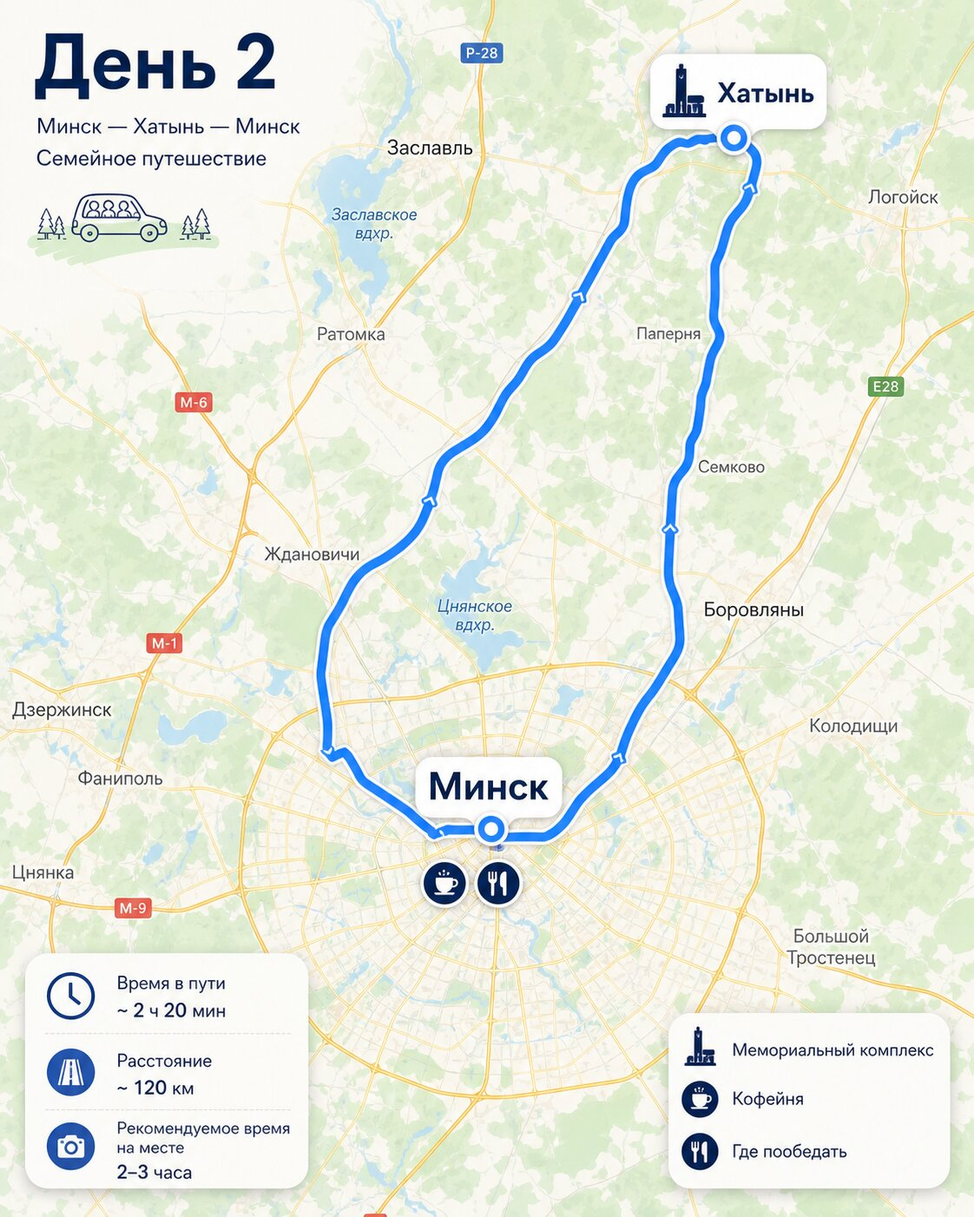
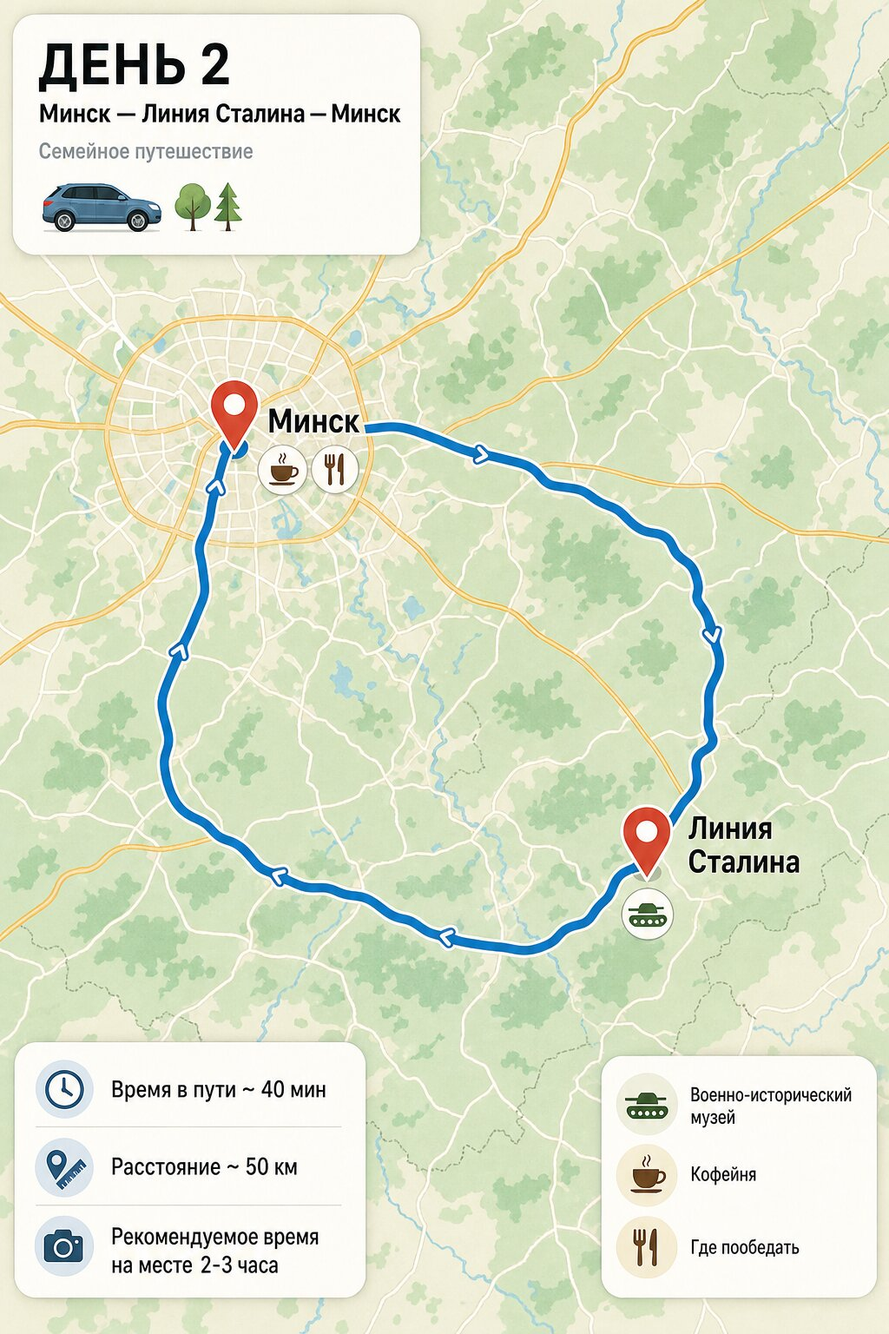
Belarus report: drop Google Maps links, swap Khatyn for Stalin Line, add cost-per-km (4 rub/km) and economy totals row

diff --git a/belarus/index.html b/belarus/index.html
@@ -10,20 +10,20 @@
 </style></head><body><div class="wrap">
 <section class="hero"><h1>Дима, Надя и Тимур — маршрут по дням с фото и навигацией</h1><p>Фотографии достопримечательностей и гастромест разнесены по дням, чтобы во время движения по маршруту было проще быстро сориентироваться. Яндекс-ссылки возвращены для каждого ключевого дня.</p></section>
 <section class="card"><h2>Маршрут по дням</h2>
-<div class="day" id="top-day-1"><div class="row"><strong>День 1 — Москва → Вязьма → Смоленск → Минск</strong><span class="small">720 км</span></div><div class="pill">Кофе в Вязьме</div><div class="pill">Обед в Смоленске</div><div class="pill">Вечер в Минске</div><div class="links"><a target="_blank" rel="noopener noreferrer" href="https://www.google.com/maps/dir/?api=1&origin=55.7558,37.6176&destination=53.9045,27.5615&waypoints=55.2104,34.2951|54.7826,32.0453&travelmode=driving">Google Maps</a><a target="_blank" rel="noopener noreferrer" href="https://yandex.ru/maps/?rtext=55.7558,37.6176~55.2104,34.2951~54.7826,32.0453~53.9045,27.5615&rtt=auto">Яндекс Карты</a> <a target="_self" href="#ref-minsk">Справка по месту</a></div><ul><li><strong>Гастростоп:</strong> «Аколица» у Вязьмы; Тимуру — мясо/драники, Наде — десерт и кофе.</li><li><strong>Ориентир по еде:</strong> завтрак 2 400 ₽, перекус 1 200 ₽, обед 3 300 ₽, ужин в Минске 4 200–9 500 ₽.</li></ul><div class="gallery"><figure><img loading="lazy" width="1024" height="1280" src="./assets/map-day1.jpg" class="daymap" alt="Карта дня 1"><figcaption>Карта дня 1 — общий обзор маршрута Москва → Вязьма → Смоленск → Минск.</figcaption></figure><figure><img loading="lazy" width="900" height="600" src="./assets/img-07-99500a550a.jpg" alt="Аколица фасад"><figcaption>Вязьма, Аколица — фасад, удобный кадр «старт большого маршрута».</figcaption></figure><figure><img loading="lazy" width="900" height="600" src="./assets/img-02-39c93213cb.jpg" alt="Аколица интерьер"><figcaption>Аколица — интерьер, удобно для семейного фото за столом.</figcaption></figure><figure><img loading="lazy" width="1400" height="700" src="./assets/img-05-577cca223e.jpg" alt="Минск центр"><figcaption>Минск, исторический центр — вечерняя прогулка и красивый городской ракурс у воды.</figcaption></figure><figure><img loading="lazy" width="1140" height="760" src="./assets/img-10-fdbaf2f2dd.jpg" alt="Charlie Minsk"><figcaption>Charlie — красивый вариант ужина и десерта для Нади в конце первого дня.</figcaption></figure></div></div>
-<div class="day" id="top-day-2"><div class="row"><strong>День 2 — Минск и Хатынь</strong><span class="small">120 км</span></div><div class="pill">Лёгкий день</div><div class="pill">Хатынь</div><div class="pill">Минск вечером</div><div class="links"><a target="_blank" rel="noopener noreferrer" href="https://www.google.com/maps/dir/?api=1&origin=53.9045,27.5615&destination=54.3349,27.9462&travelmode=driving">Google Maps</a><a target="_blank" rel="noopener noreferrer" href="https://yandex.ru/maps/?rtext=53.9045,27.5615~54.3349,27.9462~53.9045,27.5615&rtt=auto">Яндекс Карты</a> <a target="_self" href="#ref-khatyn">Справка по месту</a></div><ul><li><strong>Ритм дня:</strong> не перегружать, оставить Минск на прогулку и десертную паузу для Нади.</li><li><strong>Еда:</strong> завтрак 2 400 ₽, обед 3 300 ₽, ужин 4 200 ₽.</li></ul><div class="gallery"><figure><img loading="lazy" width="1024" height="1280" src="./assets/map-day2.jpg" class="daymap" alt="Карта дня 2"><figcaption>Карта дня 2 — маршрут Минск ↔ Хатынь, удобный для спокойного дня без спешки.</figcaption></figure><figure><img loading="lazy" width="1400" height="700" src="./assets/img-05-577cca223e.jpg" alt="Минск исторический центр"><figcaption>Минск — тот же визуальный блок помогает держать ориентир по городу.</figcaption></figure><figure><img loading="lazy" width="760" height="507" src="./assets/img-06-467f9bd79e.jpg" alt="Ресторан Charlie"><figcaption>Минск — ещё один интерьерный референс для красивого ужина/десерта.</figcaption></figure></div></div>
-<div class="day" id="top-day-3"><div class="row"><strong>День 3 — Минск → Мир → Несвиж</strong><span class="small">130 км</span></div><div class="pill">Мирский замок</div><div class="pill">Несвижский замок</div><div class="pill">Фото-день</div><div class="links"><a target="_blank" rel="noopener noreferrer" href="https://www.google.com/maps/dir/?api=1&origin=53.9045,27.5615&destination=53.2226,26.6910&waypoints=53.4529,26.4722&travelmode=driving">Google Maps</a><a target="_blank" rel="noopener noreferrer" href="https://yandex.ru/maps/?rtext=53.9045,27.5615~53.4529,26.4722~53.2226,26.6910&rtt=auto">Яндекс Карты</a> <a target="_self" href="#ref-mir">Справка: Мир</a> <a target="_self" href="#ref-nesvizh">Справка: Несвиж</a></div><ul><li><strong>Главный акцент:</strong> лучшие семейные фото всей поездки лучше делать именно здесь.</li><li><strong>Еда:</strong> обед 3 300 ₽ по дороге/в Мире, ужин 4 200–5 000 ₽ в Несвиже.</li></ul><div class="gallery"><figure><img loading="lazy" width="1024" height="1280" src="./assets/map-day3.jpg" class="daymap" alt="Карта дня 3"><figcaption>Карта дня 3 — схема переезда Минск → Мир → Несвиж с акцентом на замки.</figcaption></figure><figure><img loading="lazy" width="830" height="553" src="./assets/img-08-ea9c2cb20e.jpg" alt="Мирский замок"><figcaption>Мирский замок — ищите точку с водой и отражением.</figcaption></figure><figure><img loading="lazy" width="1080" height="864" src="./assets/img-11-8dc8a990a6.jpg" alt="Несвижский замок"><figcaption>Несвиж — лучший семейный кадр у моста и фронтального фасада.</figcaption></figure><figure><img loading="lazy" width="1200" height="1200" src="./assets/img-01-6d0cd53f52.jpg" alt="Ресторан Несвиж"><figcaption>Несвиж — атмосферный интерьер для ужина после замков.</figcaption></figure><figure><img loading="lazy" width="1024" height="682" src="./assets/img-04-4dcee041bf.jpg" alt="Несвиж ресторанный зал"><figcaption>Ещё один референс несвижского обеденно-ужинного формата.</figcaption></figure></div></div>
-<div class="day" id="top-day-4"><div class="row"><strong>День 4 — Несвиж → Брест → Беловежская пуща</strong><span class="small">320 км</span></div><div class="pill">Брестская крепость</div><div class="pill">Обед в Бресте</div><div class="pill">Ужин в пуще</div><div class="links"><a target="_blank" rel="noopener noreferrer" href="https://www.google.com/maps/dir/?api=1&origin=53.2226,26.6910&destination=52.5636,23.8051&waypoints=52.0847,23.6569&travelmode=driving">Google Maps</a><a target="_blank" rel="noopener noreferrer" href="https://yandex.ru/maps/?rtext=53.2226,26.6910~52.0847,23.6569~52.5636,23.8051&rtt=auto">Яндекс Карты</a> <a target="_self" href="#ref-brest">Справка: Брестская крепость</a> <a target="_self" href="#ref-pushcha">Справка: Пуща</a></div><ul><li><strong>После крепости:</strong> лучше сделать спокойный обед и только потом ехать в пущу.</li><li><strong>Еда:</strong> обед 3 300–5 200 ₽, ужин 4 200–6 000 ₽.</li></ul><div class="gallery"><figure><img class="daymap" loading="lazy" width="1024" height="1280" src="./assets/map-day4.jpg" alt="Карта дня 4"><figcaption>Карта дня 4 — переезд Несвиж → Брест → Беловежская пуща с ключевыми точками дня.</figcaption></figure><figure><img loading="lazy" width="1280" height="853" src="./assets/img-12-04cac4042e.jpg" alt="Брестская крепость"><figcaption>Брестская крепость — снимайте снизу вверх для ощущения масштаба.</figcaption></figure><figure><img loading="lazy" width="1170" height="640" src="./assets/img-09-7c54694d19.jpg" alt="Брест ресторан"><figcaption>Брест — спокойный интерьер для обеда после мемориала.</figcaption></figure><figure><img loading="lazy" width="901" height="600" src="./assets/img-13-0a2f91ef1e.jpg" alt="Ресторан Беловежская пуща фасад"><figcaption>Беловежская пуща — фасад ресторана, удобный внешний ориентир.</figcaption></figure><figure><img loading="lazy" width="800" height="480" src="./assets/img-03-61286eaaf9.jpg" alt="Беловежская пуща"><figcaption>Природные фото в пуще лучше делать на опушках и светлых просеках.</figcaption></figure></div></div>
-<div class="day" id="top-day-5"><div class="row"><strong>День 5 — Беловежская пуща → Минск → Смоленск → Москва</strong><span class="small">1070 км</span></div><div class="pill">Ранний выезд</div><div class="pill">Пауза в Минске/по пути</div><div class="pill">Обед в Смоленске</div><div class="links"><a target="_blank" rel="noopener noreferrer" href="https://www.google.com/maps/dir/?api=1&origin=52.5636,23.8051&destination=55.7558,37.6176&waypoints=53.9045,27.5615|54.7826,32.0453&travelmode=driving">Google Maps</a><a target="_blank" rel="noopener noreferrer" href="https://yandex.ru/maps/?rtext=52.5636,23.8051~53.9045,27.5615~54.7826,32.0453~55.7558,37.6176&rtt=auto">Яндекс Карты</a> <a target="_self" href="#ref-pushcha">Справка по пуще</a></div><ul><li><strong>Сценарий еды:</strong> облегчённый завтрак/бранч, обед в Смоленске, короткий кофе-стоп при необходимости.</li><li><strong>Главное:</strong> не перегружать день дополнительными прогулками.</li></ul><div class="gallery"><figure><img class="daymap" loading="lazy" width="1024" height="1280" src="./assets/map-day5.jpg" alt="Карта дня 5"><figcaption>Карта дня 5 — длинный обратный маршрут Беловежская пуща → Минск → Смоленск → Москва.</figcaption></figure><figure><img loading="lazy" width="800" height="480" src="./assets/img-03-61286eaaf9.jpg" alt="Утро в Белоруссии"><figcaption>Последний взгляд на природный блок перед обратным длинным перегоном.</figcaption></figure><figure><img loading="lazy" width="900" height="600" src="./assets/img-02-39c93213cb.jpg" alt="Дорожная еда"><figcaption>Формат спокойной дорожной остановки, который стоит повторять на обратном пути.</figcaption></figure></div></div>
+<div class="day" id="top-day-1"><div class="row"><strong>День 1 — Москва → Вязьма → Смоленск → Минск</strong><span class="small">720 км</span></div><div class="pill">Кофе в Вязьме</div><div class="pill">Обед в Смоленске</div><div class="pill">Вечер в Минске</div><div class="links"><a target="_blank" rel="noopener noreferrer" href="https://yandex.ru/maps/?rtext=55.7558,37.6176~55.2104,34.2951~54.7826,32.0453~53.9045,27.5615&rtt=auto">Яндекс Карты</a> <a target="_self" href="#ref-minsk">Справка по месту</a></div><ul><li><strong>Гастростоп:</strong> «Аколица» у Вязьмы; Тимуру — мясо/драники, Наде — десерт и кофе.</li><li><strong>Ориентир по еде:</strong> завтрак 2 400 ₽, перекус 1 200 ₽, обед 3 300 ₽, ужин в Минске 4 200–9 500 ₽.</li></ul><div class="gallery"><figure><img loading="lazy" width="1024" height="1280" src="./assets/map-day1.jpg" class="daymap" alt="Карта дня 1"><figcaption>Карта дня 1 — общий обзор маршрута Москва → Вязьма → Смоленск → Минск.</figcaption></figure><figure><img loading="lazy" width="900" height="600" src="./assets/img-07-99500a550a.jpg" alt="Аколица фасад"><figcaption>Вязьма, Аколица — фасад, удобный кадр «старт большого маршрута».</figcaption></figure><figure><img loading="lazy" width="900" height="600" src="./assets/img-02-39c93213cb.jpg" alt="Аколица интерьер"><figcaption>Аколица — интерьер, удобно для семейного фото за столом.</figcaption></figure><figure><img loading="lazy" width="1400" height="700" src="./assets/img-05-577cca223e.jpg" alt="Минск центр"><figcaption>Минск, исторический центр — вечерняя прогулка и красивый городской ракурс у воды.</figcaption></figure><figure><img loading="lazy" width="1140" height="760" src="./assets/img-10-fdbaf2f2dd.jpg" alt="Charlie Minsk"><figcaption>Charlie — красивый вариант ужина и десерта для Нади в конце первого дня.</figcaption></figure></div></div>
+<div class="day" id="top-day-2"><div class="row"><strong>День 2 — Минск и Линия Сталина</strong><span class="small">50 км</span></div><div class="pill">Лёгкий день</div><div class="pill">Линия Сталина</div><div class="pill">Минск вечером</div><div class="links"><a target="_blank" rel="noopener noreferrer" href="https://yandex.ru/maps/?rtext=53.9045,27.5615~54.0578,27.2971~53.9045,27.5615&rtt=auto">Яндекс Карты</a> <a target="_self" href="#ref-stalin-line">Справка по месту</a></div><ul><li><strong>Ритм дня:</strong> не перегружать, оставить Минск на прогулку и десертную паузу для Нади.</li><li><strong>Что смотреть:</strong> историко-культурный комплекс «Линия Сталина» — музей фортификации под открытым небом с ДОТами, окопами и военной техникой, интерактивная стрельба и разборка оружия увлекут Тимура.</li><li><strong>Еда:</strong> завтрак 2 400 ₽, обед 3 300 ₽, ужин 4 200 ₽.</li></ul><div class="gallery"><figure><img loading="lazy" width="1024" height="1280" src="./assets/map-day2.jpg" class="daymap" alt="Карта дня 2"><figcaption>Карта дня 2 — маршрут Минск ↔ Линия Сталина, удобный для спокойного дня без спешки.</figcaption></figure><figure><img loading="lazy" width="1400" height="700" src="./assets/img-05-577cca223e.jpg" alt="Минск исторический центр"><figcaption>Минск — тот же визуальный блок помогает держать ориентир по городу.</figcaption></figure><figure><img loading="lazy" width="760" height="507" src="./assets/img-06-467f9bd79e.jpg" alt="Ресторан Charlie"><figcaption>Минск — ещё один интерьерный референс для красивого ужина/десерта.</figcaption></figure></div></div>
+<div class="day" id="top-day-3"><div class="row"><strong>День 3 — Минск → Мир → Несвиж</strong><span class="small">130 км</span></div><div class="pill">Мирский замок</div><div class="pill">Несвижский замок</div><div class="pill">Фото-день</div><div class="links"><a target="_blank" rel="noopener noreferrer" href="https://yandex.ru/maps/?rtext=53.9045,27.5615~53.4529,26.4722~53.2226,26.6910&rtt=auto">Яндекс Карты</a> <a target="_self" href="#ref-mir">Справка: Мир</a> <a target="_self" href="#ref-nesvizh">Справка: Несвиж</a></div><ul><li><strong>Главный акцент:</strong> лучшие семейные фото всей поездки лучше делать именно здесь.</li><li><strong>Еда:</strong> обед 3 300 ₽ по дороге/в Мире, ужин 4 200–5 000 ₽ в Несвиже.</li></ul><div class="gallery"><figure><img loading="lazy" width="1024" height="1280" src="./assets/map-day3.jpg" class="daymap" alt="Карта дня 3"><figcaption>Карта дня 3 — схема переезда Минск → Мир → Несвиж с акцентом на замки.</figcaption></figure><figure><img loading="lazy" width="830" height="553" src="./assets/img-08-ea9c2cb20e.jpg" alt="Мирский замок"><figcaption>Мирский замок — ищите точку с водой и отражением.</figcaption></figure><figure><img loading="lazy" width="1080" height="864" src="./assets/img-11-8dc8a990a6.jpg" alt="Несвижский замок"><figcaption>Несвиж — лучший семейный кадр у моста и фронтального фасада.</figcaption></figure><figure><img loading="lazy" width="1200" height="1200" src="./assets/img-01-6d0cd53f52.jpg" alt="Ресторан Несвиж"><figcaption>Несвиж — атмосферный интерьер для ужина после замков.</figcaption></figure><figure><img loading="lazy" width="1024" height="682" src="./assets/img-04-4dcee041bf.jpg" alt="Несвиж ресторанный зал"><figcaption>Ещё один референс несвижского обеденно-ужинного формата.</figcaption></figure></div></div>
+<div class="day" id="top-day-4"><div class="row"><strong>День 4 — Несвиж → Брест → Беловежская пуща</strong><span class="small">320 км</span></div><div class="pill">Брестская крепость</div><div class="pill">Обед в Бресте</div><div class="pill">Ужин в пуще</div><div class="links"><a target="_blank" rel="noopener noreferrer" href="https://yandex.ru/maps/?rtext=53.2226,26.6910~52.0847,23.6569~52.5636,23.8051&rtt=auto">Яндекс Карты</a> <a target="_self" href="#ref-brest">Справка: Брестская крепость</a> <a target="_self" href="#ref-pushcha">Справка: Пуща</a></div><ul><li><strong>После крепости:</strong> лучше сделать спокойный обед и только потом ехать в пущу.</li><li><strong>Еда:</strong> обед 3 300–5 200 ₽, ужин 4 200–6 000 ₽.</li></ul><div class="gallery"><figure><img class="daymap" loading="lazy" width="1024" height="1280" src="./assets/map-day4.jpg" alt="Карта дня 4"><figcaption>Карта дня 4 — переезд Несвиж → Брест → Беловежская пуща с ключевыми точками дня.</figcaption></figure><figure><img loading="lazy" width="1280" height="853" src="./assets/img-12-04cac4042e.jpg" alt="Брестская крепость"><figcaption>Брестская крепость — снимайте снизу вверх для ощущения масштаба.</figcaption></figure><figure><img loading="lazy" width="1170" height="640" src="./assets/img-09-7c54694d19.jpg" alt="Брест ресторан"><figcaption>Брест — спокойный интерьер для обеда после мемориала.</figcaption></figure><figure><img loading="lazy" width="901" height="600" src="./assets/img-13-0a2f91ef1e.jpg" alt="Ресторан Беловежская пуща фасад"><figcaption>Беловежская пуща — фасад ресторана, удобный внешний ориентир.</figcaption></figure><figure><img loading="lazy" width="800" height="480" src="./assets/img-03-61286eaaf9.jpg" alt="Беловежская пуща"><figcaption>Природные фото в пуще лучше делать на опушках и светлых просеках.</figcaption></figure></div></div>
+<div class="day" id="top-day-5"><div class="row"><strong>День 5 — Беловежская пуща → Минск → Смоленск → Москва</strong><span class="small">1070 км</span></div><div class="pill">Ранний выезд</div><div class="pill">Пауза в Минске/по пути</div><div class="pill">Обед в Смоленске</div><div class="links"><a target="_blank" rel="noopener noreferrer" href="https://yandex.ru/maps/?rtext=52.5636,23.8051~53.9045,27.5615~54.7826,32.0453~55.7558,37.6176&rtt=auto">Яндекс Карты</a> <a target="_self" href="#ref-pushcha">Справка по пуще</a></div><ul><li><strong>Сценарий еды:</strong> облегчённый завтрак/бранч, обед в Смоленске, короткий кофе-стоп при необходимости.</li><li><strong>Главное:</strong> не перегружать день дополнительными прогулками.</li></ul><div class="gallery"><figure><img class="daymap" loading="lazy" width="1024" height="1280" src="./assets/map-day5.jpg" alt="Карта дня 5"><figcaption>Карта дня 5 — длинный обратный маршрут Беловежская пуща → Минск → Смоленск → Москва.</figcaption></figure><figure><img loading="lazy" width="800" height="480" src="./assets/img-03-61286eaaf9.jpg" alt="Утро в Белоруссии"><figcaption>Последний взгляд на природный блок перед обратным длинным перегоном.</figcaption></figure><figure><img loading="lazy" width="900" height="600" src="./assets/img-02-39c93213cb.jpg" alt="Дорожная еда"><figcaption>Формат спокойной дорожной остановки, который стоит повторять на обратном пути.</figcaption></figure></div></div>
 </section>
 </section>
 <section class="card" id="reference-guide"><h2>Справочно по достопримечательностям</h2><p class="small">В этих блоках собраны короткие, точные и понятные исторические саммари в формате современного путеводителя. Из каждого дня можно перейти сюда, прочитать справку и быстро вернуться назад к нужному блоку маршрута.</p>
 <div class="day" id="ref-minsk"><div class="row"><strong>Минск — Троицкое предместье и исторический центр</strong><a target="_self" href="#top-day-1">Вернуться к дню 1</a></div><p class="small">Троицкое предместье — один из самых узнаваемых исторических кварталов Минска на берегу Свислочи; в ранние века это была важная торговая зона, где сходились дороги из Вильно, Полоцка, Смоленска и Могилёва. После получения Минском Магдебургского права в 1499 году городской центр стал смещаться, но район сохранил историческую память о старом торговом Минске, а современная городская ратуша была открыта в 2003 году как часть обновлённого исторического образа центра. [web:161]</p><p class="small">Для поездки это место удобно тем, что даёт не «музей под стеклом», а живой городской контекст: вода, силуэты старых домов, ратуша, прогулочные оси и мягкий вечерний свет. Именно поэтому Троицкое предместье хорошо работает как первая неспешная прогулка после длинного перегона и как понятная визуальная точка знакомства с Минском. [web:161]</p></div>
-<div class="day" id="ref-khatyn"><div class="row"><strong>Хатынь</strong><a target="_self" href="#top-day-2">Вернуться к дню 2</a></div><p class="small">Хатынь — не просто мемориал одной деревне, а символ трагедии сотен белорусских деревень, уничтоженных нацистами в годы войны. 22 марта 1943 года деревня Хатынь была сожжена, погибли 149 жителей, из них 75 детей; решение о создании мемориального комплекса приняли в январе 1966 года, а открыт он был 5 июля 1969 года. [web:178][web:184]</p><p class="small">Современный взгляд на Хатынь требует тишины и времени: это место не для «галочки», а для очень ясного и эмоционально сильного разговора о цене войны. Поэтому в маршруте день с Хатынью сделан лёгким по километражу, чтобы посещение не превращалось в спешку между точками. [web:178][web:184]</p></div>
+<div class="day" id="ref-stalin-line"><div class="row"><strong>Линия Сталина</strong><a target="_self" href="#top-day-2">Вернуться к дню 2</a></div><p class="small">Историко-культурный комплекс «Линия Сталина» находится у агрогородка Лошаны Минского района, примерно в 20–30 км от Минска по трассе Р28/М6 в сторону Молодечно. Это крупнейший военно-исторический музей под открытым небом в Беларуси, воссозданный на базе ДОТов Минского укреплённого района 1930-х годов; комплекс торжественно открыт 30 июня 2005 года к 60-летию Победы (<a target="_blank" rel="noopener noreferrer" href="https://stalin-line.by/istoria-sozdania-ikk-ls/">stalin-line.by</a>).</p><p class="small">На территории 26–32 га — доты, дзоты, окопы, противотанковые рвы и более 160 единиц военной техники (танки, самолёты, артиллерия), а также интерактивные зоны: стрельба из пневматики, сборка-разборка оружия и исторические викторины — формат, который обычно заходит детям лучше, чем стандартная музейная экспозиция (<a target="_blank" rel="noopener noreferrer" href="https://belta.by/society/view/rubezh-muzhestva-i-geroizma-istoriko-kulturnyj-kompleks-linija-stalina-otmechaet-20-letie-723743-2025/">БЕЛТА</a>). Работает ежедневно с 10:00 до 18:00.</p></div>
 <div class="day" id="ref-mir"><div class="row"><strong>Мирский замок</strong><a target="_self" href="#top-day-3">Вернуться к дню 3</a></div><p class="small">Мирский замок — один из главных символов исторической Беларуси и редкий для региона пример замка, в облике которого читаются сразу несколько эпох. Его строительство относят к концу XV — началу XVI века; замок связывают с Юрием Ильиничем, а в список Всемирного наследия ЮНЕСКО он был включён в 2000 году. [web:156][web:166][web:167][web:169][web:170]</p><p class="small">Его ценность не только в «красивой картинке»: ЮНЕСКО выделяет Мир как наглядное свидетельство последовательной смены готики, ренессанса и барокко, а также как памятник долгой и непростой политической истории региона. Для путешественника это делает Мир идеальным местом, где визуальная красота совпадает с исторической глубиной, поэтому он так хорошо работает в формате семейного фото-дня. [web:166][web:169]</p></div>
 <div class="day" id="ref-nesvizh"><div class="row"><strong>Несвижский замок и комплекс Радзивиллов</strong><a target="_self" href="#top-day-3">Вернуться к дню 3</a></div><p class="small">Несвиж — это уже не просто отдельный замок, а большая резиденциальная и культурная система, связанная с родом Радзивиллов. Архитектурный, жилой и культурный комплекс рода Радзивиллов в Несвиже был включён в список Всемирного наследия ЮНЕСКО в 2005 году; в него входят дворец, ландшафтные парки и костёл Божьего Тела. [web:157][web:160][web:162][web:165]</p><p class="small">Если Мир воспринимается как «замок-картинка», то Несвиж — это уже пространство европейской резиденциальной культуры: здесь важны не только фасады, но и идея статуса, власти, приватного двора и продуманного ландшафта. Именно поэтому в современном путеводительном смысле Несвиж интересен не меньше, а часто и глубже Мира — он показывает, как в центре Беларуси формировалась аристократическая культурная среда. [web:157][web:165]</p></div>
 <div class="day" id="ref-brest"><div class="row"><strong>Брестская крепость</strong><a target="_self" href="#top-day-4">Вернуться к дню 4</a></div><p class="small">Брестская крепость — одно из самых сильных мемориальных мест на всём маршруте. Музей героической обороны Брестской крепости был открыт 8 ноября 1956 года, а мемориальный комплекс «Брестская крепость-герой» — 25 сентября 1971 года; именно эта связка музея и мемориального пространства формирует сегодняшнее восприятие крепости. [web:175][web:186]</p><p class="small">Современный путеводитель советует воспринимать крепость не только как символ первых дней войны, но и как сложный многослойный исторический ландшафт: фортификация, музей, ритуальное пространство памяти и большой городской ориентир. Поэтому здесь лучше не спешить и идти от внешнего впечатления масштаба к музейному контексту, а уже потом — к обеду и переезду в пущу. [web:181][web:182][web:186]</p></div>
 <div class="day" id="ref-pushcha"><div class="row"><strong>Беловежская пуща</strong><a target="_self" href="#top-day-4">Вернуться к дню 4</a></div><p class="small">Беловежская пуща — один из самых известных лесных массивов Европы и объект Всемирного наследия ЮНЕСКО. Как государственный заповедник на белорусской стороне она ведёт историю с 25 декабря 1939 года, а в 1992 году наиболее сохранившийся участок старовозрастных лесов был внесён в список Всемирного наследия ЮНЕСКО; в 2014 году трансграничный белорусско-польский объект был повторно включён в список по новым критериям выдающейся универсальной ценности. [web:176][web:179][web:180]</p><p class="small">Но по-настоящему интересно здесь то, что пуща — это одновременно древний лес, бывшая территория царских и княжеских охот и современный национальный парк. В практическом смысле это означает, что поездка в пущу — не просто прогулка «по природе», а встреча с очень редким европейским ландшафтом, где тема охраны, истории власти и живой экосистемы соединены в одном месте. [web:176][web:180]</p></div>
 </section>
-<section class="card"><h2>Сводная экономика</h2><table><thead><tr><th>День</th><th>Км</th><th>Топливо</th><th>Амортизация</th><th>Еда</th><th>Отель</th><th>Base итого</th></tr></thead><tbody><tr><td>1</td><td>720</td><td>6 912 ₽</td><td>14 400 ₽</td><td>10 900 ₽</td><td>7 500 ₽</td><td>39 712 ₽</td></tr><tr><td>2</td><td>120</td><td>1 152 ₽</td><td>2 400 ₽</td><td>9 900 ₽</td><td>7 500 ₽</td><td>20 952 ₽</td></tr><tr><td>3</td><td>130</td><td>1 248 ₽</td><td>2 600 ₽</td><td>9 900 ₽</td><td>7 000 ₽</td><td>20 748 ₽</td></tr><tr><td>4</td><td>320</td><td>3 072 ₽</td><td>6 400 ₽</td><td>9 900 ₽</td><td>7 500 ₽</td><td>26 872 ₽</td></tr><tr><td>5</td><td>1070</td><td>10 272 ₽</td><td>21 400 ₽</td><td>7 500 ₽</td><td>—</td><td>39 172 ₽</td></tr></tbody></table><p class="small">Base total: 137 456 ₽. В этой версии главный акцент сделан на удобство навигации в дороге: день → места → фото → ссылки в Google/Яндекс.</p></section>
+<section class="card"><h2>Сводная экономика</h2><table><thead><tr><th>День</th><th>Км</th><th>Топливо</th><th>Cost per km</th><th>Еда</th><th>Отель</th><th>Base итого</th></tr></thead><tbody><tr><td>1</td><td>720</td><td>6 912 ₽</td><td>2 880 ₽</td><td>10 900 ₽</td><td>7 500 ₽</td><td>28 192 ₽</td></tr><tr><td>2</td><td>50</td><td>480 ₽</td><td>200 ₽</td><td>9 900 ₽</td><td>7 500 ₽</td><td>18 080 ₽</td></tr><tr><td>3</td><td>130</td><td>1 248 ₽</td><td>520 ₽</td><td>9 900 ₽</td><td>7 000 ₽</td><td>18 668 ₽</td></tr><tr><td>4</td><td>320</td><td>3 072 ₽</td><td>1 280 ₽</td><td>9 900 ₽</td><td>7 500 ₽</td><td>21 752 ₽</td></tr><tr><td>5</td><td>1070</td><td>10 272 ₽</td><td>4 280 ₽</td><td>7 500 ₽</td><td>—</td><td>22 052 ₽</td></tr></tbody><tfoot><tr style="font-weight:700;border-top:2px solid var(--line)"><td>Итого</td><td>2 290</td><td>21 984 ₽</td><td>9 160 ₽</td><td>48 100 ₽</td><td>29 500 ₽</td><td>108 744 ₽</td></tr></tfoot></table><p class="small">Base total: 108 744 ₽. Cost per km рассчитан по ставке 4 ₽/км взамен амортизации. День 2 пересчитан под новый маршрут Минск ↔ Линия Сталина (50 км вместо 120 км до Хатыни). В этой версии главный акцент сделан на удобство навигации в дороге: день → места → фото → ссылка в Яндекс.Картах.</p></section>
 </div></body></html>
